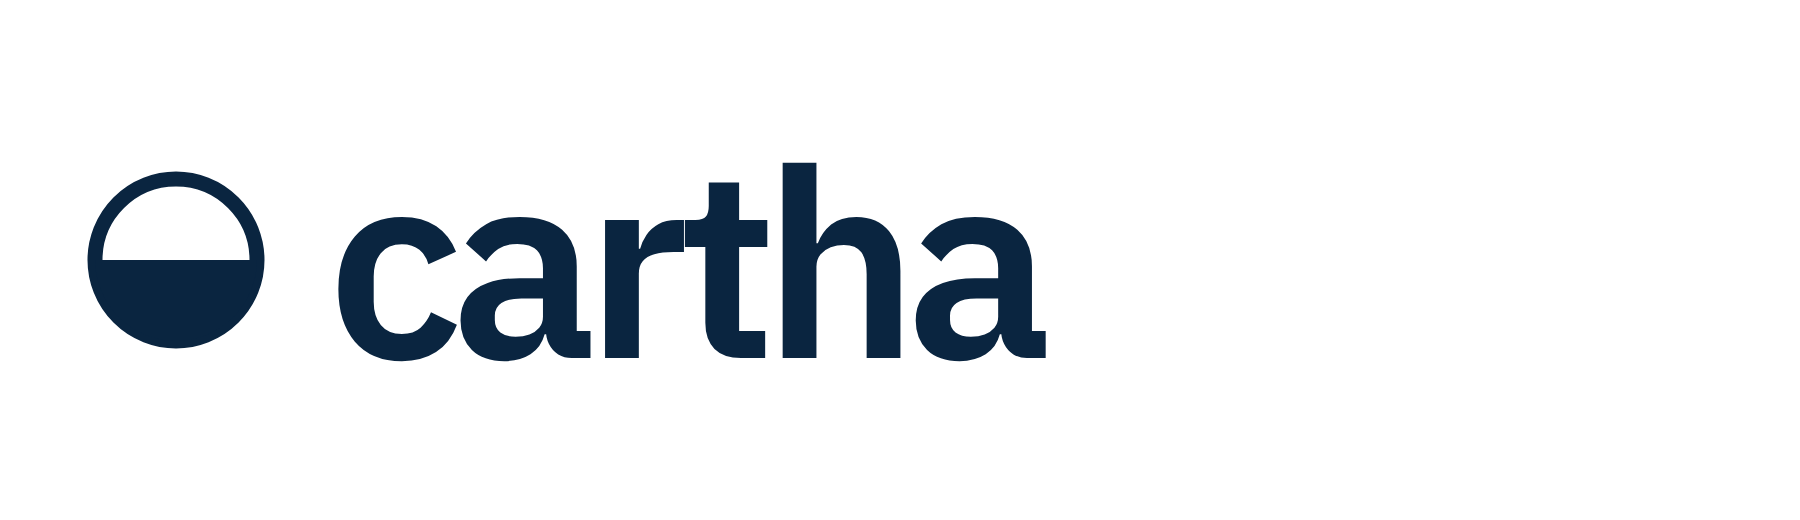
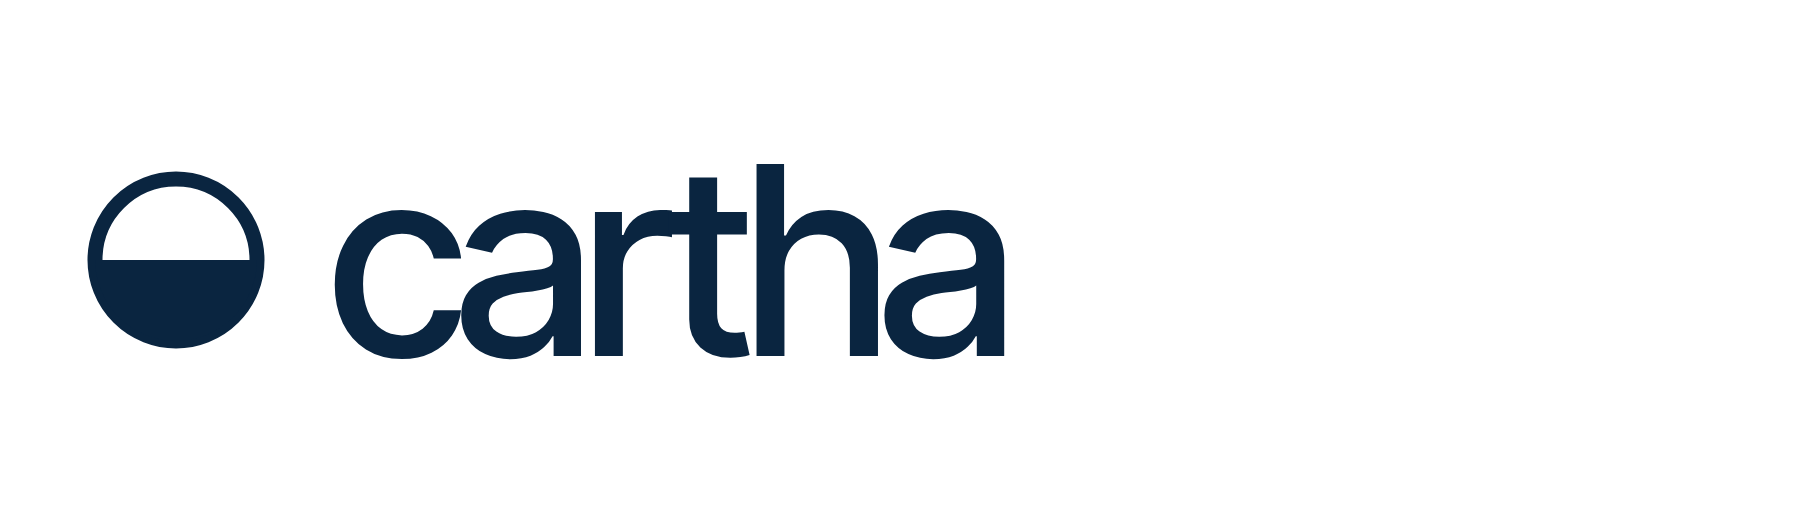
Brand assets in Inter Tight

Changed region(s): [[0.1867, 0.3077, 0.5911, 0.7077], [0.2178, 0.6769, 0.28, 0.7077]]

diff --git a/brand/src/og.html b/brand/src/og.html
@@ -1,16 +1,16 @@
-<!doctype html><html><head><meta charset="utf-8"><link href="https://fonts.googleapis.com/css2?family=IBM+Plex+Sans:wght@400;500;600&display=swap" rel="stylesheet">
+<!doctype html><html><head><meta charset="utf-8"><link href="https://fonts.googleapis.com/css2?family=Inter+Tight:wght@500;600&family=Inter:wght@400;500;600&display=swap" rel="stylesheet">
 <style>
   html,body{margin:0}
-  body{width:1200px;height:630px;overflow:hidden;background:#f4f7fb;color:#0f1f33;font-family:"IBM Plex Sans",sans-serif;position:relative}
+  body{width:1200px;height:630px;overflow:hidden;background:#f4f7fb;color:#0f1f33;font-family:"Inter",sans-serif;position:relative}
   .water{position:absolute;left:0;right:0;bottom:0;height:250px;background:#0a2540;border-top:1px solid rgba(232,238,246,.45)}
   .brand{position:absolute;left:64px;top:48px;display:flex;align-items:center;gap:12px}
   .brand svg{width:26px;height:26px}
-  .brand span{font-weight:600;font-size:30px;line-height:1;letter-spacing:-.035em}
+  .brand span{font-family:"Inter Tight",sans-serif;font-weight:500;font-size:30px;line-height:1;letter-spacing:-.035em}
   .lbl{position:absolute;left:64px;top:154px;font-size:22px;color:#5b6b80}
-  .h{position:absolute;left:56px;top:178px;font-weight:500;font-size:232px;line-height:.9;letter-spacing:-.06em;white-space:nowrap}
+  .h{position:absolute;left:56px;top:178px;font-family:"Inter Tight",sans-serif;font-weight:500;font-size:232px;line-height:.9;letter-spacing:-.06em;white-space:nowrap}
   .h small{font-size:.34em;font-weight:400;letter-spacing:-.02em;color:#5b6b80;margin-left:.1em}
   .r{position:absolute;left:56px;top:381px;height:170px;overflow:hidden;-webkit-mask-image:linear-gradient(to bottom,rgba(0,0,0,1) 0%,rgba(0,0,0,.35) 45%,rgba(0,0,0,0) 92%)}
-  .r div{font-weight:500;font-size:232px;line-height:.9;letter-spacing:-.06em;white-space:nowrap;color:#e8eef6;opacity:.3;filter:blur(.9px);transform:scaleY(-1) translateY(32px)}
+  .r div{font-family:"Inter Tight",sans-serif;font-weight:500;font-size:232px;line-height:.9;letter-spacing:-.06em;white-space:nowrap;color:#e8eef6;opacity:.3;filter:blur(.9px);transform:scaleY(-1) translateY(32px)}
   .r small{font-size:.34em;font-weight:400;letter-spacing:-.02em;opacity:.55;margin-left:.1em}
   .sub{position:absolute;left:64px;bottom:44px;color:rgba(232,238,246,.8);font-size:26px}
   .sub b{color:#fff;font-weight:600}

diff --git a/brand/src/banner.html b/brand/src/banner.html
@@ -1,16 +1,16 @@
-<!doctype html><html><head><meta charset="utf-8"><link href="https://fonts.googleapis.com/css2?family=IBM+Plex+Sans:wght@400;500;600&display=swap" rel="stylesheet">
+<!doctype html><html><head><meta charset="utf-8"><link href="https://fonts.googleapis.com/css2?family=Inter+Tight:wght@500;600&family=Inter:wght@400;500;600&display=swap" rel="stylesheet">
 <style>
   html,body{margin:0}
-  body{width:1500px;height:500px;overflow:hidden;background:#f4f7fb;color:#0f1f33;font-family:"IBM Plex Sans",sans-serif;position:relative}
+  body{width:1500px;height:500px;overflow:hidden;background:#f4f7fb;color:#0f1f33;font-family:"Inter",sans-serif;position:relative}
   .water{position:absolute;left:0;right:0;bottom:0;height:190px;background:#0a2540;border-top:1px solid rgba(232,238,246,.45)}
   .brand{position:absolute;left:72px;top:48px;display:flex;align-items:center;gap:14px}
   .brand svg{width:30px;height:30px}
-  .brand span{font-weight:600;font-size:34px;line-height:1;letter-spacing:-.035em}
+  .brand span{font-family:"Inter Tight",sans-serif;font-weight:500;font-size:34px;line-height:1;letter-spacing:-.035em}
   .tag{position:absolute;right:72px;top:56px;font-size:22px;color:#5b6b80;text-align:right;line-height:1.4}
-  .h{position:absolute;left:62px;top:150px;font-weight:600;font-size:160px;line-height:.9;letter-spacing:-.05em;white-space:nowrap}
+  .h{position:absolute;left:62px;top:150px;font-family:"Inter Tight",sans-serif;font-weight:500;letter-spacing:-.045em;font-size:160px;line-height:.9;letter-spacing:-.05em;white-space:nowrap}
   .r{position:absolute;left:62px;top:311px;height:150px;overflow:hidden;
      -webkit-mask-image:linear-gradient(to bottom,rgba(0,0,0,1) 0%,rgba(0,0,0,.35) 45%,rgba(0,0,0,0) 92%)}
-  .r div{font-weight:600;font-size:160px;line-height:.9;letter-spacing:-.05em;white-space:nowrap;color:#e8eef6;opacity:.3;filter:blur(.9px);transform:scaleY(-1) translateY(2px)}
+  .r div{font-family:"Inter Tight",sans-serif;font-weight:500;font-size:160px;line-height:.9;letter-spacing:-.05em;white-space:nowrap;color:#e8eef6;opacity:.3;filter:blur(.9px);transform:scaleY(-1) translateY(2px)}
   .sub{position:absolute;left:72px;bottom:40px;color:rgba(232,238,246,.8);font-size:24px}
   .sub b{color:#fff;font-weight:600}
 </style></head><body>

diff --git a/brand/src/wordmark.html b/brand/src/wordmark.html
@@ -1,4 +1,4 @@
-<!doctype html><html><head><meta charset="utf-8"><link href="https://fonts.googleapis.com/css2?family=IBM+Plex+Sans:wght@400;500;600&display=swap" rel="stylesheet">
-<style>html,body{margin:0;background:transparent}body{width:900px;height:260px;display:flex;align-items:center;padding-left:40px;box-sizing:border-box;font-family:"IBM Plex Sans",sans-serif}
-.brand{display:flex;align-items:center;gap:28px;color:#0a2540}.brand svg{width:96px;height:96px}.brand span{font-weight:600;font-size:132px;line-height:1;letter-spacing:-.05em}</style>
+<!doctype html><html><head><meta charset="utf-8"><link href="https://fonts.googleapis.com/css2?family=Inter+Tight:wght@500;600&family=Inter:wght@400;500;600&display=swap" rel="stylesheet">
+<style>html,body{margin:0;background:transparent}body{width:900px;height:260px;display:flex;align-items:center;padding-left:40px;box-sizing:border-box;font-family:"Inter",sans-serif}
+.brand{display:flex;align-items:center;gap:28px;color:#0a2540}.brand svg{width:96px;height:96px}.brand span{font-family:"Inter Tight",sans-serif;font-weight:500;font-size:132px;line-height:1;letter-spacing:-.05em}</style>
 </head><body><div class="brand"><svg viewBox="0 0 64 64"><circle cx="32" cy="32" r="27" fill="none" stroke="#0a2540" stroke-width="5"/><path d="M5 32h54a27 27 0 0 1-54 0z" fill="#0a2540"/></svg><span>cartha</span></div></body></html>
